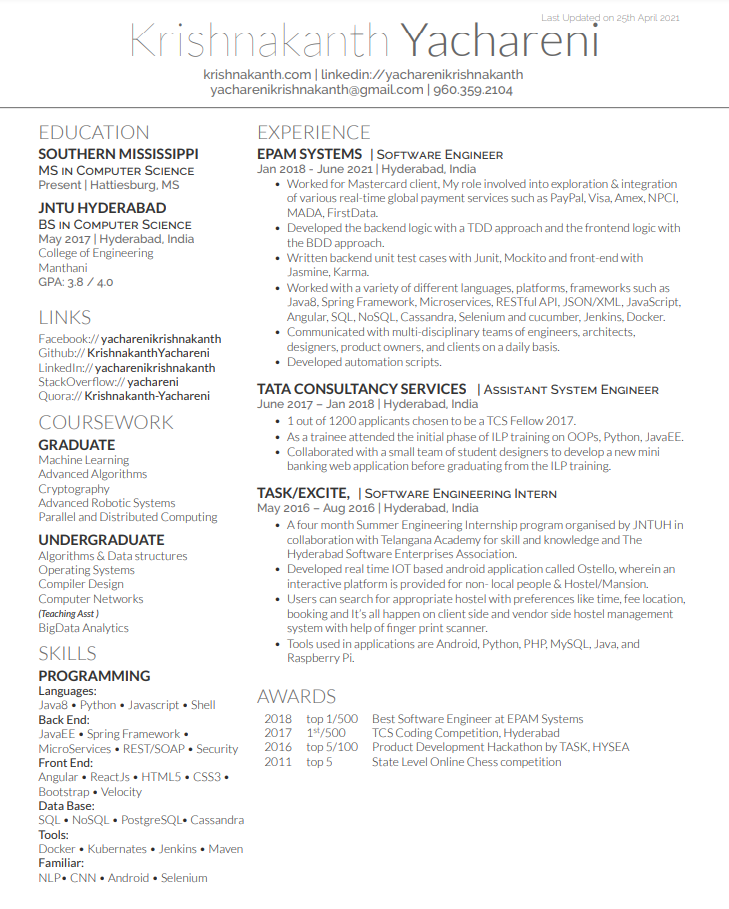
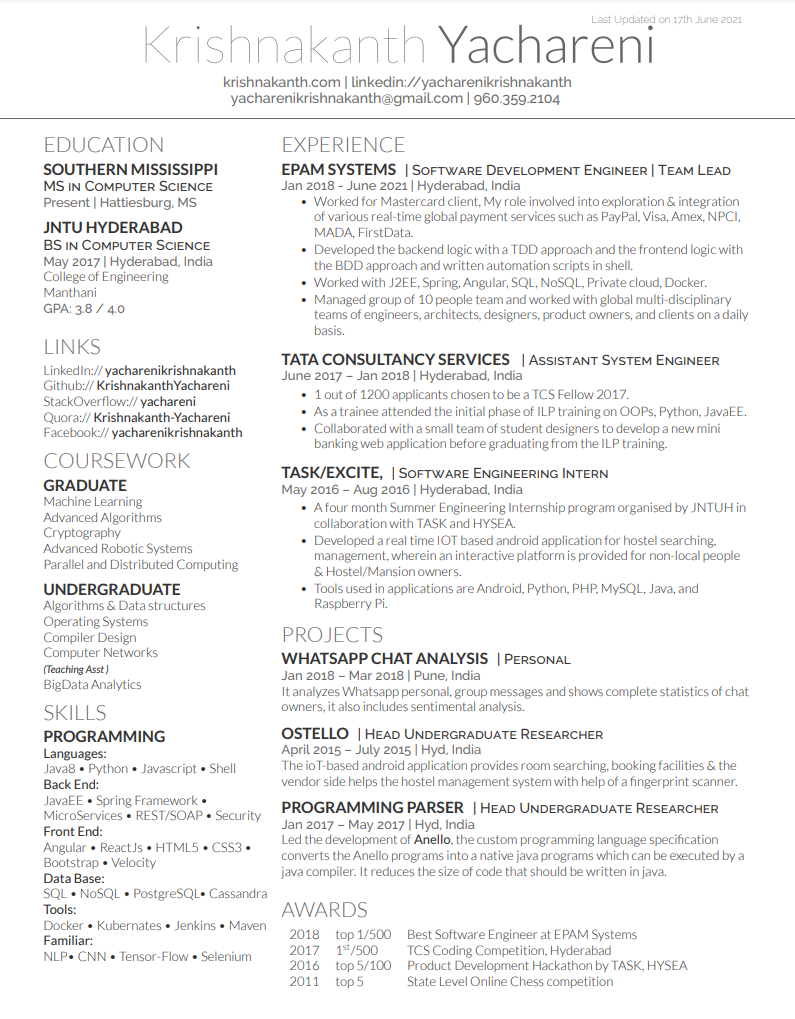
updated

Changed region(s): [[0.0, 0.0, 1.0, 0.9857], [0.513, 0.8933, 0.8752, 0.9857]]

diff --git a/kk_resume-openfont.tex b/kk_resume-openfont.tex
@@ -95,11 +95,11 @@ Manthani\\
 %%%%%%%%%%%%%%%%%%%%%%%%%%%%%%%%%%%%%%
 
 \section{Links} 
-Facebook:// \href{https://www.facebook.com/yacharenikrishnakanth/}{\bf yacharenikrishnakanth} \\
-Github:// \href{https://github.com/KrishnakanthYachareni}{\bf KrishnakanthYachareni} \\
 LinkedIn://  \href{https://www.linkedin.com/in/yacharenikrishnakanth/}{\bf yacharenikrishnakanth} \\
+Github:// \href{https://github.com/KrishnakanthYachareni}{\bf KrishnakanthYachareni} \\
 StackOverflow://  \href{https://stackoverflow.com/users/6436720/yachareni-krishnakanth}{\bf yachareni} \\
-Quora://  \href{https://www.quora.com/profile/Krishnakanth-Yachareni}{\bf Krishnakanth-Yachareni}
+Quora://  \href{https://www.quora.com/profile/Krishnakanth-Yachareni}{\bf Krishnakanth-Yachareni} \\
+Facebook:// \href{https://www.facebook.com/yacharenikrishnakanth/}{\bf yacharenikrishnakanth} \\
 
 %%%%%%%%%%%%%%%%%%%%%%%%%%%%%%%%%%%%%%
 %     COURSEWORK
@@ -140,7 +140,7 @@ SQL \textbullet{} NoSQL \textbullet{} PostgreSQL\textbullet{} Cassandra\\
  \location{\bf Tools:}
  Docker \textbullet{} Kubernates \textbullet{} Jenkins \textbullet{} Maven
 \location{\bf Familiar:}
- NLP\textbullet{} CNN \textbullet{} Android \textbullet{}  Selenium
+ NLP\textbullet{} CNN \textbullet{} Tensor-Flow \textbullet{}  Selenium
 \sectionsep
 
 %%%%%%%%%%%%%%%%%%%%%%%%%%%%%%%%%%%%%%
@@ -159,16 +159,14 @@ SQL \textbullet{} NoSQL \textbullet{} PostgreSQL\textbullet{} Cassandra\\
 
 \section{Experience}
 \runsubsection{EPAM Systems}
-\descript{| Software Engineer }
+\descript{| Software Development Engineer | Team Lead }
 \location{Jan 2018 - June 2021 | Hyderabad, India}
 \vspace{\topsep} % Hacky fix for awkward extra vertical space
 \begin{tightemize}
 \item Worked for Mastercard client, My role involved into exploration \& integration of various real-time global payment services such as PayPal, Visa, Amex, NPCI, MADA, FirstData.
-\item Developed the backend logic with a TDD approach and the frontend logic with the BDD approach.
-\item  Written backend unit test cases with Junit, Mockito and front-end with Jasmine, Karma.
-\item Worked with a variety of different languages, platforms, frameworks such as Java8, Spring Framework, Microservices, RESTful API, JSON/XML, JavaScript, Angular, SQL, NoSQL, Cassandra, Selenium and cucumber, Jenkins, Docker.
-\item Communicated with multi-disciplinary teams of engineers, architects, designers, product owners, and clients on a daily basis.
-\item Developed automation scripts.
+\item Developed the backend logic with a TDD approach and the frontend logic with the BDD approach and written automation scripts in shell.
+\item Worked with J2EE, Spring, Angular, SQL, NoSQL, Private cloud, Docker.
+\item Managed group of 10 people team and worked with global multi-disciplinary teams of engineers, architects, designers, product owners, and clients on a daily basis.
 \end{tightemize}
 \sectionsep
 
@@ -186,13 +184,33 @@ SQL \textbullet{} NoSQL \textbullet{} PostgreSQL\textbullet{} Cassandra\\
 \descript{| Software Engineering Intern }
 \location{May 2016 – Aug 2016 | Hyderabad, India}
 \begin{tightemize}
-\item A four month Summer Engineering Internship program organised by JNTUH in collaboration with Telangana Academy
-for skill and knowledge and The Hyderabad Software Enterprises Association.
-\item Developed real time IOT based android application called Ostello, wherein an interactive platform is provided for non-
-local people \& Hostel/Mansion.
-\item Users can search for appropriate hostel with preferences like time, fee location, booking and It’s all happen on client side and vendor side hostel management system with help of finger print scanner.
+\item A four month Summer Engineering Internship program organised by JNTUH in collaboration with TASK and HYSEA.
+\item Developed a real time IOT based android application for hostel searching, management, wherein an interactive platform is provided for non-local people \& Hostel/Mansion owners.
 \item Tools used in applications are Android, Python, PHP, MySQL, Java, and Raspberry Pi.
 \end{tightemize}
+% \sectionsep
+
+%%%%%%%%%%%%%%%%%%%%%%%%%%%%%%%%%%%%%%
+%     PROJECTS
+%%%%%%%%%%%%%%%%%%%%%%%%%%%%%%%%%%%%%%
+
+\section{Projects}
+\runsubsection{WhatsApp Chat Analysis}
+\descript{| Personal}
+\location{Jan 2018 – Mar 2018 | Pune, India}
+It analyzes Whatsapp personal, group messages and shows complete statistics of chat owners, it also includes sentimental analysis.
+\sectionsep
+
+\runsubsection{Ostello}
+\descript{| Head Undergraduate Researcher}
+\location{April 2015 – July 2015 | Hyd, India}
+The ioT-based android application provides room searching, booking facilities \& the vendor side helps the hostel management system with help of a fingerprint scanner.
+\sectionsep
+
+\runsubsection{Programming Parser}
+\descript{| Head Undergraduate Researcher}
+\location{Jan 2017 – May 2017 | Hyd, India}
+Led the development of \textbf{Anello}, the custom programming language specification converts the Anello programs into a native java programs which can be executed by a java compiler. It reduces the size of code that should be written in java.
 \sectionsep
 
 %%%%%%%%%%%%%%%%%%%%%%%%%%%%%%%%%%%%%%

diff --git a/README.md b/README.md
@@ -1,63 +1,3 @@
 Krishnakanth-Resume
 =========================
-
-A **one-page**, **two asymmetric column** resume template in **XeTeX** that caters particularly to an **undergraduate Computer Science** student.
-As of **v1.2**, there is an option to choose from two templates:
-
-1. **MacFonts** - uses fonts native to OSX - *Helvetica*, *Helvetica Neue* (and it's Light and Ultralight versions) and the CJK fonts *Heiti SC*, and *Heiti TC*. The EULA of these fonts prevents distribution on Open Source.
-2. **OpenFonts** - uses free, open-source fonts that resemble the above - *Lato* (and its various variants) and *Raleway*.
-
-It is licensed under the Apache License 2.0.
-
-## Motivation
-
-Common LaTeX resume-builders such as [**moderncv**](http://www.latextemplates.com/template/moderncv-cv-and-cover-letter)  and the [**friggeri-cv**](https://github.com/afriggeri/cv) look great if you're looking for a multi-page resume with numerous citations, but usually imperfect for making a thorough, single-page one. A lot of companies today search resumes based on [keywords](http://www.businessinsider.com/most-big-companies-have-a-tracking-system-that-scans-your-resume-for-keywords-2012-1) but at the same time require/prefer a one-page resume, especially for undergraduates. 
-
-This template attempts to **look clean**, highlight **details**, be a **single page**, and allow useful **LaTeX templating**.
-
-## Preview
-
-### OpenFonts
-![alt tag](https://raw.githubusercontent.com/deedydas/Deedy-Resume/master/OpenFonts/sample-image.png)
-
-### MacFonts
-![alt tag](https://raw.githubusercontent.com/deedydas/Deedy-Resume/master/MacFonts/sample-image.png)
-
-## Dependencies
-
-1. Compiles only with **XeTeX** and required **BibTex** for compiling publications and the .bib filetype.
-2. Uses fonts that are usually only available to **Mac** users such as Helvetica Neue Light.
-
-## Availability
-
-1. MacFonts version - [as an online preview](http://debarghyadas.com/resume/debarghya-das-resume.pdf) and [as a direct download](https://github.com/deedydas/Deedy-Resume/raw/master/MacFonts/deedy_resume.pdf)
-2. OpenFonts version - [as a direct download](https://github.com/deedydas/Deedy-Resume/raw/master/OpenFonts/deedy_resume-openfont.pdf)
-3. **Overleaf**.com (formerly **WriteLatex**.com) (v1 fonts/colors changed) - [compilable online](https://www.writelatex.com/templates/deedy-resume/sqdbztjjghvz#.U2H9Kq1dV18)
-4. **ShareLatex**.com (v1 fonts changes) - [compilable online](https://www.sharelatex.com/templates/cv-or-resume/deedy-resume)
-
-## Changelog
-### v1.2
- 1. Added publications in place of societies.
- 2. Collapsed a portion of education.
- 3. Fixed a bug with alignment of overflowing long last updated dates on the top right. 
-
-### v1.1
- 1. Fixed several compilation bugs with \renewcommand
- 2. Got Open-source fonts (Windows/Linux support)
- 3. Added Last Updated
- 4. Moved Title styling into .sty
- 5. Commented .sty file.
-
-## TODO
-1. Merge OpenFont and MacFonts as a single sty with options.
-2. Figure out a smoother way for the document to flow onto the next page.
-3. Add styling information for a "Projects/Hacks" section.
-4. Add location/address information
-5. Fix the hacky 'References' omission outside the .cls file in the MacFonts version.
-6. Add various styling and section options and allow for multiple pages smoothly.
-
-## Known Issues:
-1. Overflows onto second page if any column's contents are more than the vertical limit
-2. Hacky space on the first bullet point on the second column.
-3. Hacky redefinition of \refname to omit 'References' text for publications in the MacFonts version.
-
+https://www.overleaf.com/project
